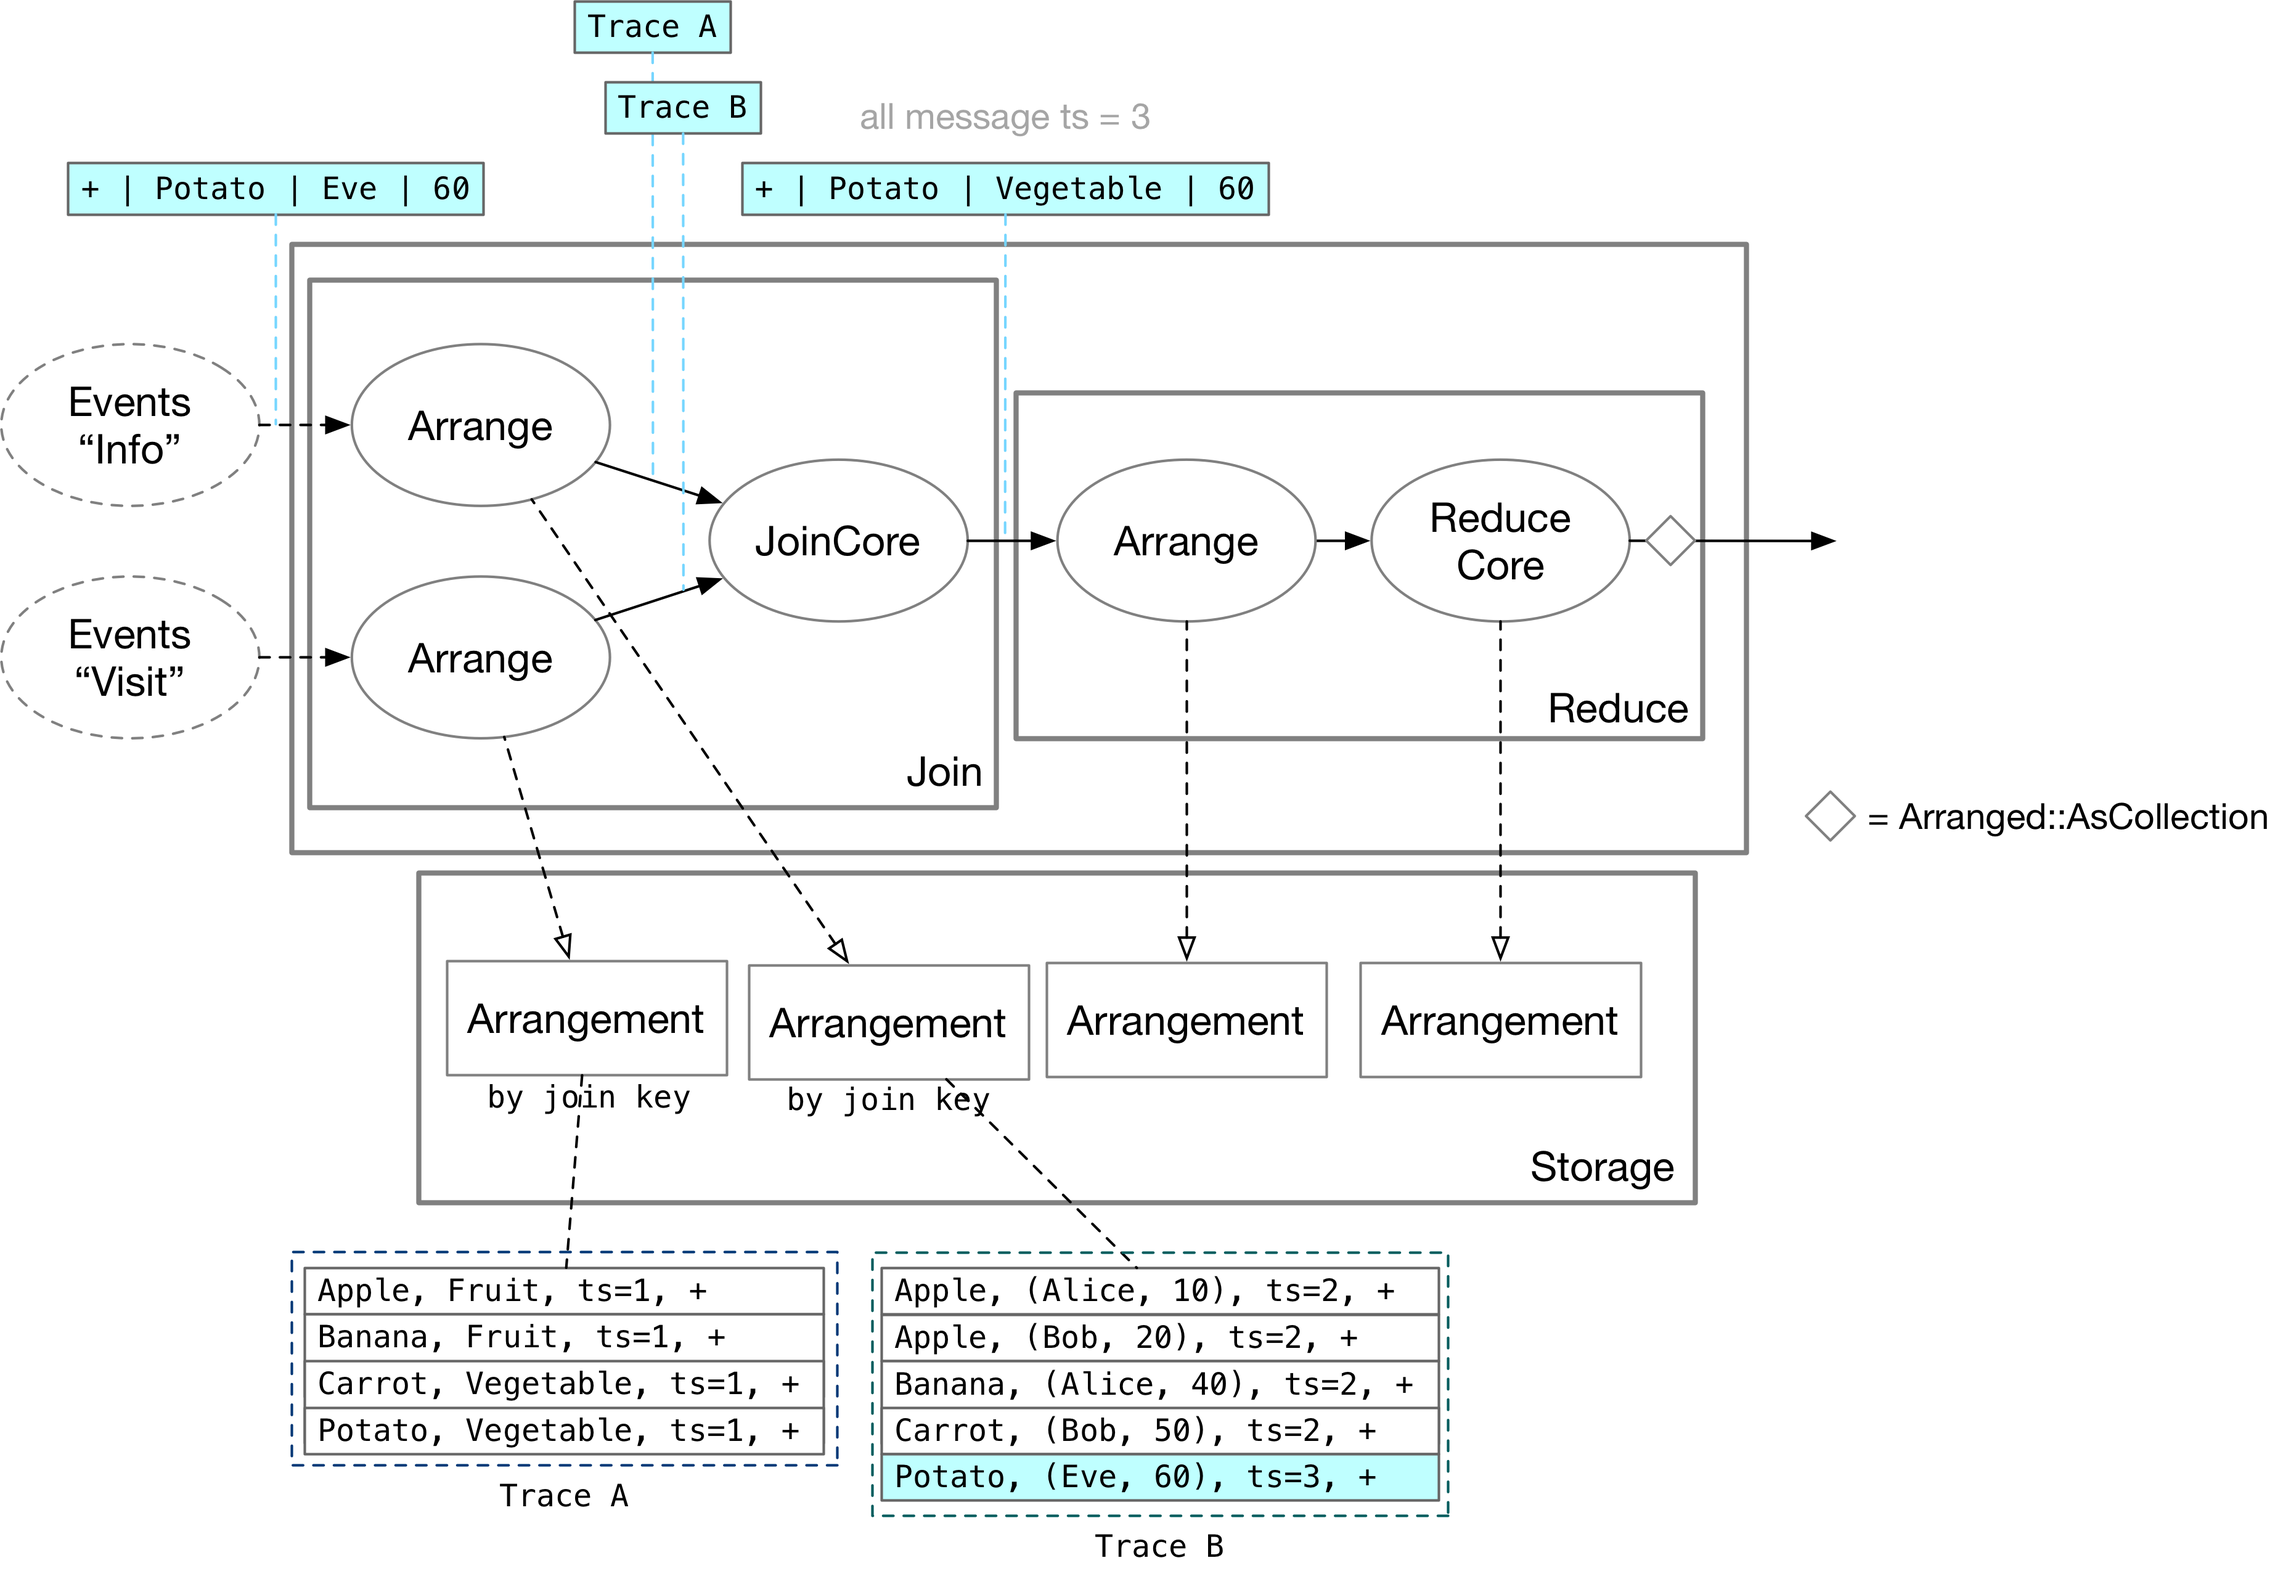
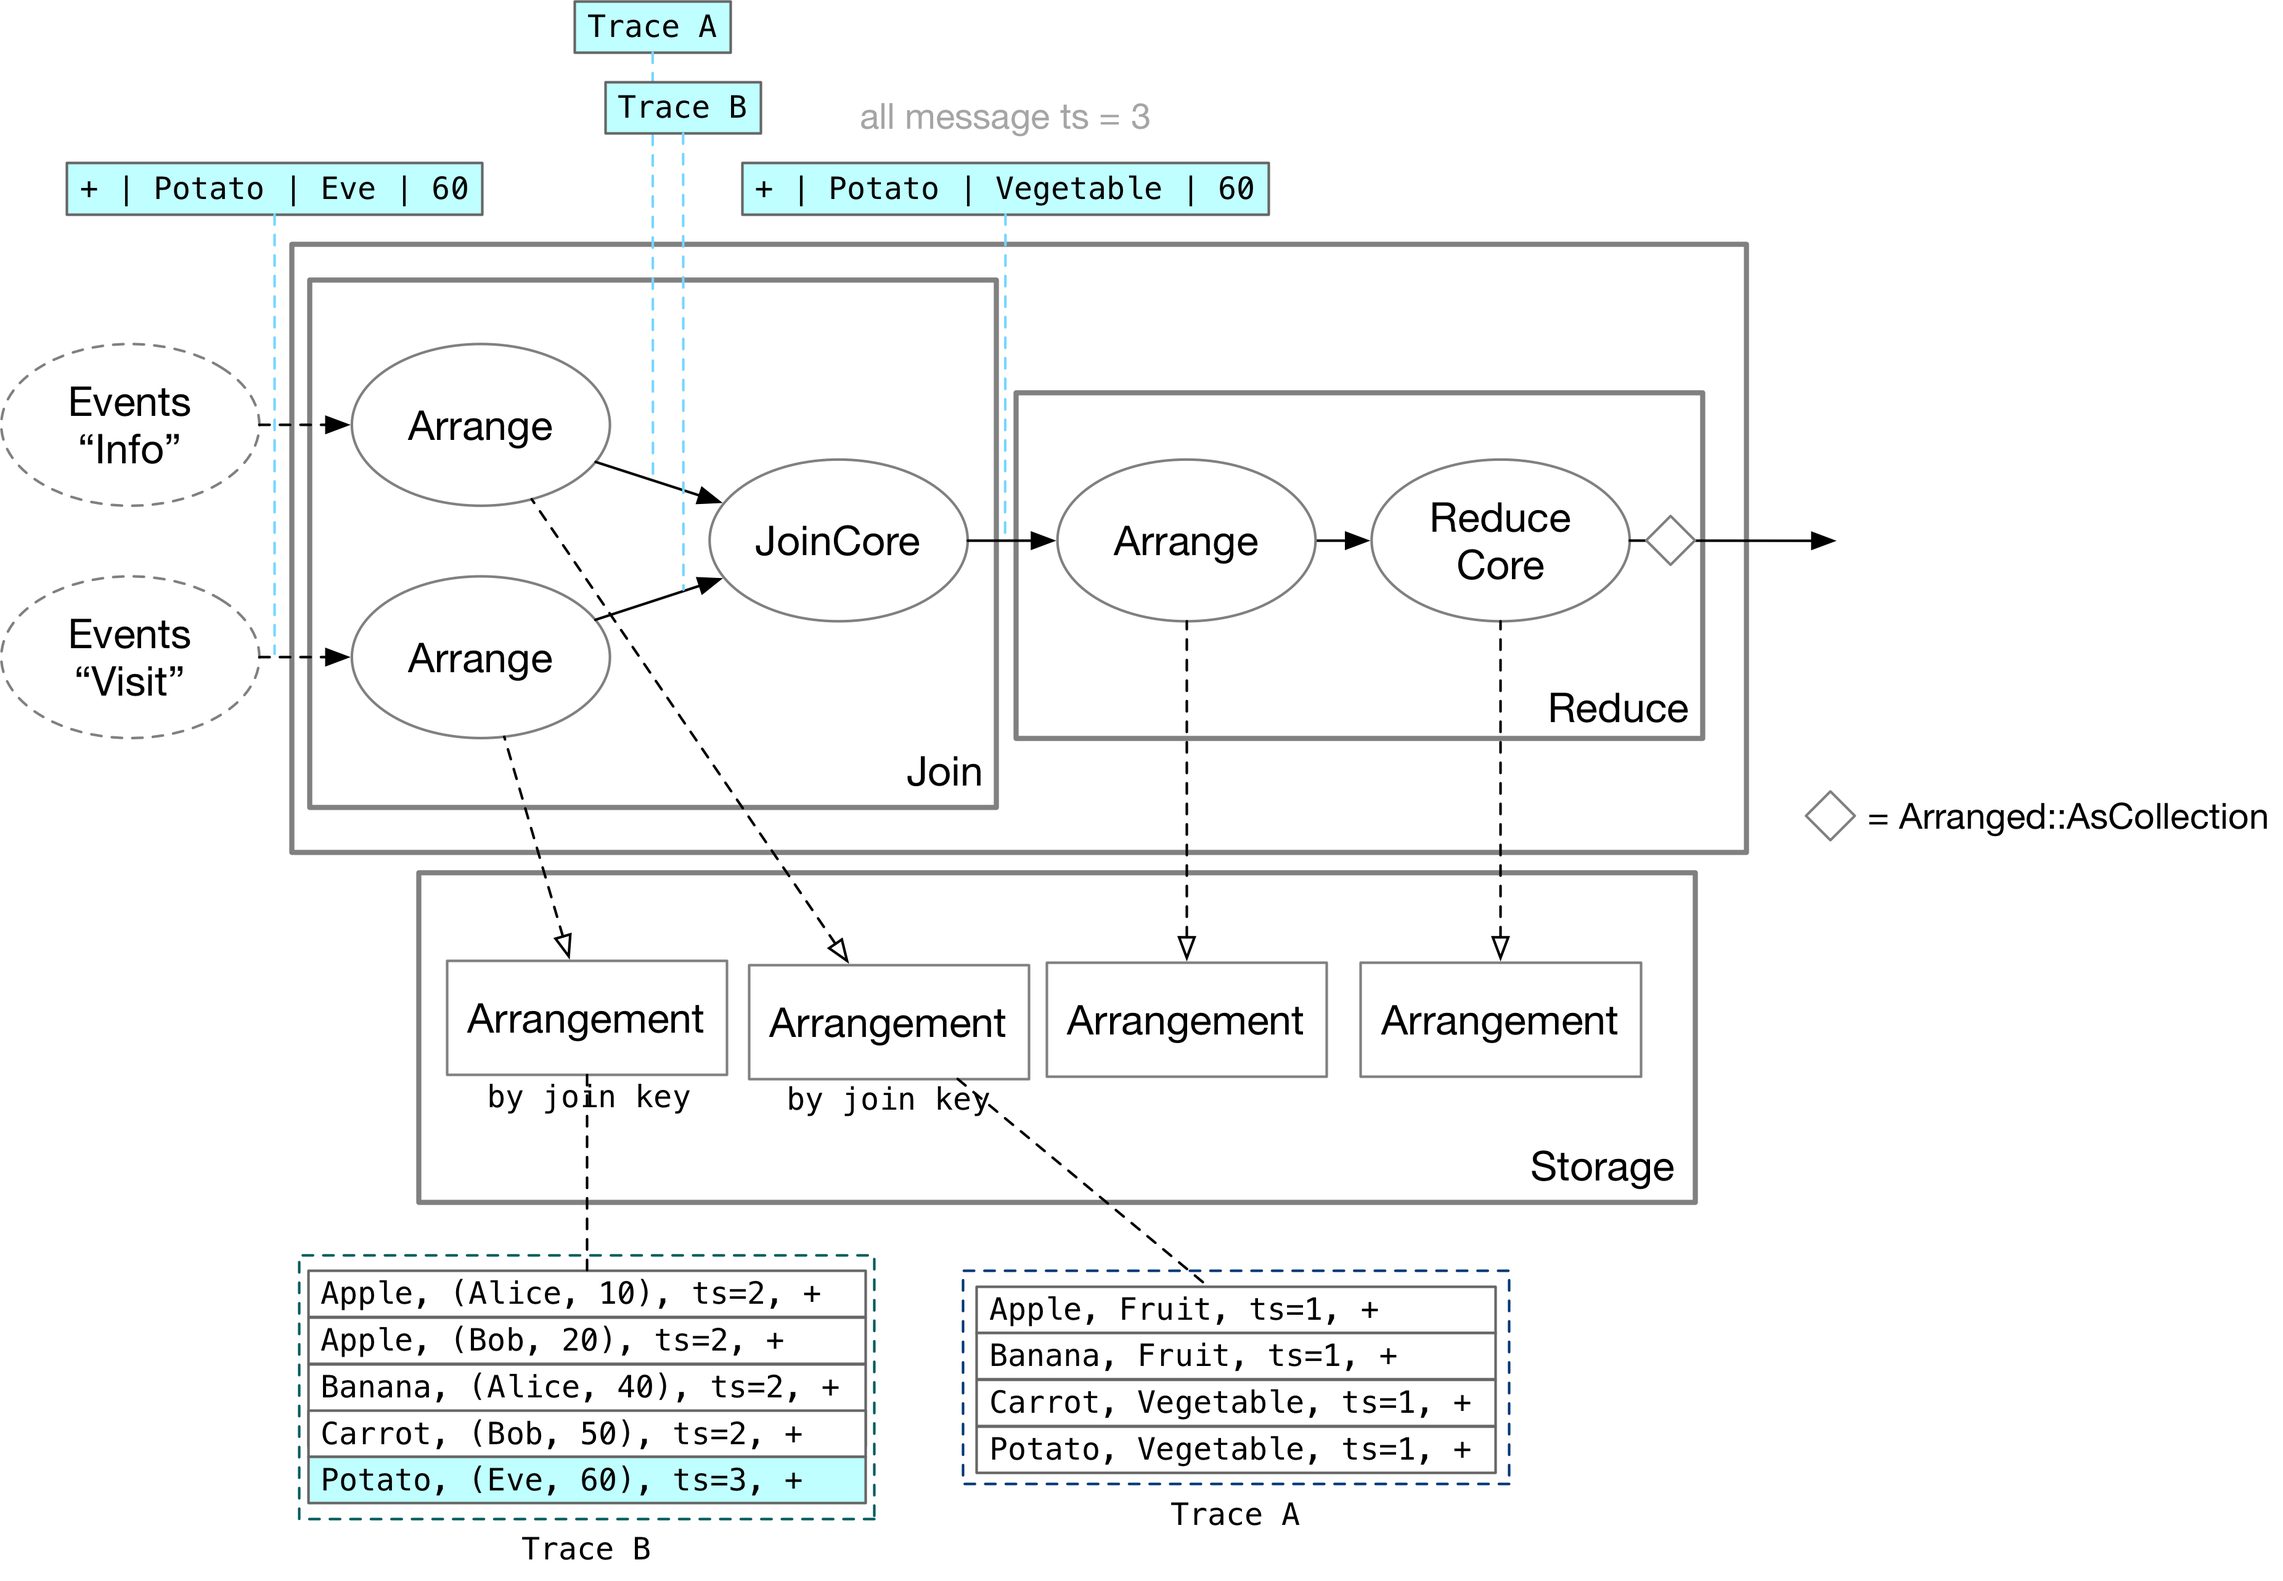
fix typos

diff --git a/content/posts/articles/2022-01-15-store-of-streaming-states/index.md b/content/posts/articles/2022-01-15-store-of-streaming-states/index.md
@@ -157,7 +157,7 @@ SQL 的 A Join B 操作在 DD 中对应三个算子：两个 `Arrange` 和一个
 
 ![join state of differential dataflow](dd-state-join.png)
 
-如上图所示，现在 Info 侧来了一条更新：Eve 对着 Potato 看了 60 秒。`JoinCore` 算子通过 Trace A 访问到这条更新，并向另一侧的 Trace B 查询 `product = Potato` 的行，匹配到 `Potato` 是一种蔬菜，往下游输出 `Potato, Vegetable, 60` 的更改。
+如上图所示，现在 Visit 侧来了一条更新：Eve 对着 Potato 看了 60 秒。`JoinCore` 算子通过 Trace B 访问到这条更新，并向另一侧的 Trace A 查询 `product = Potato` 的行，匹配到 `Potato` 是一种蔬菜，往下游输出 `Potato, Vegetable, 60` 的更改。
 
 ### Reduce 状态的存储
 
